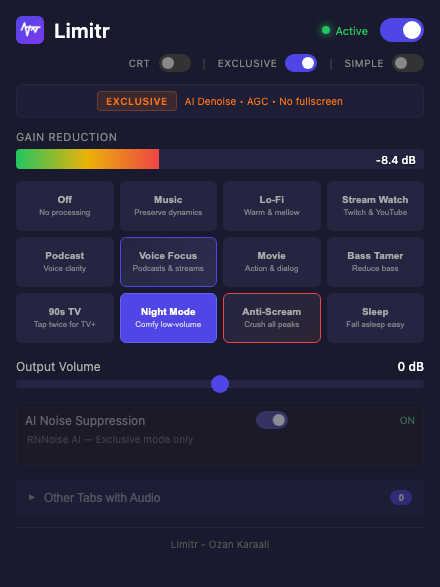
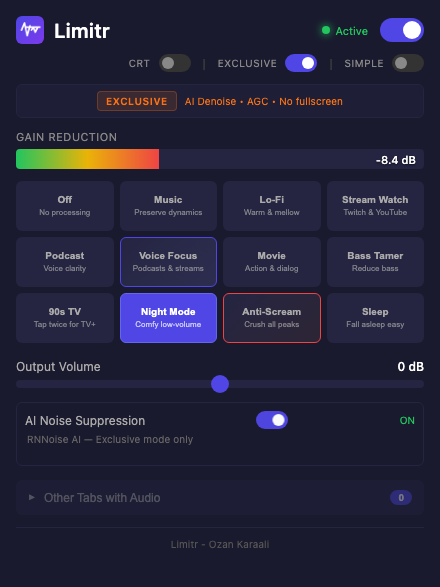
fix: Properly simulate exclusive mode in screenshots
setExclusiveMode() now removes the "unavailable" class from exclusive
features group and simple ANC row, sets mixerMode=true, and changes
the badge to "Active". Fixes grayed-out exclusive features in
screenshot 3 and incorrect RNNoise display in screenshot 2.

Changed region(s): [[0.0591, 0.7053, 0.3841, 0.7666], [0.5614, 0.6746, 0.65, 0.7359], [0.9159, 0.7053, 0.9455, 0.7359]]

diff --git a/tests/take-screenshots.js b/tests/take-screenshots.js
@@ -28,12 +28,15 @@ async function setActive(page) {
   });
 }
 
-// Helper: simulate exclusive mode visuals
+// Helper: simulate exclusive mode visuals + remove grayed-out state
 async function setExclusiveMode(page) {
   await page.evaluate(() => {
+    // Set the JS variable so any subsequent calls see exclusive mode
+    window.mixerMode = true;
+
+    // Mode badge
     const badge = document.getElementById('modeBadge');
     const note = document.getElementById('modeNote');
-    const excBadge = document.getElementById('exclusiveBadge');
     if (badge) {
       badge.textContent = 'Exclusive';
       badge.classList.remove('regular');
@@ -43,9 +46,25 @@ async function setExclusiveMode(page) {
       note.textContent = 'AI Denoise \u2022 AGC \u2022 No fullscreen';
       note.classList.add('exclusive');
     }
-    if (excBadge) excBadge.classList.add('active');
+
+    // Exclusive toggle
     const toggle = document.getElementById('mixerModeToggle');
     if (toggle) toggle.checked = true;
+
+    // Remove "unavailable" grayed-out state from exclusive features
+    const excGroup = document.getElementById('exclusiveFeaturesGroup');
+    if (excGroup) excGroup.classList.remove('unavailable');
+
+    // Activate the exclusive badge ("Active" instead of "Requires Exclusive Mode")
+    const excBadge = document.getElementById('exclusiveBadge');
+    if (excBadge) {
+      excBadge.textContent = 'Active';
+      excBadge.classList.add('active');
+    }
+
+    // Un-gray simple mode ANC row too
+    const simpleAnc = document.getElementById('simpleAncRow');
+    if (simpleAnc) simpleAnc.classList.remove('unavailable');
   });
 }
 
